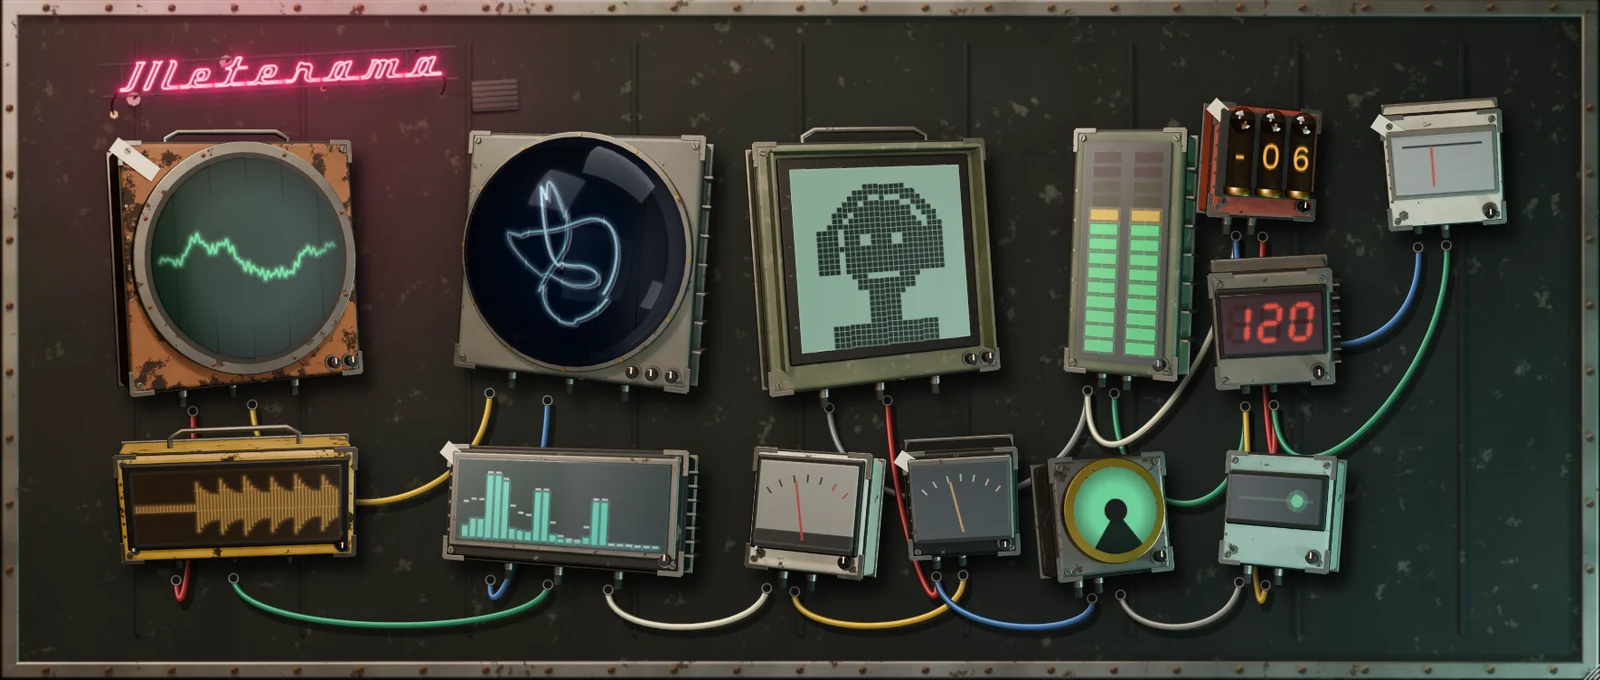
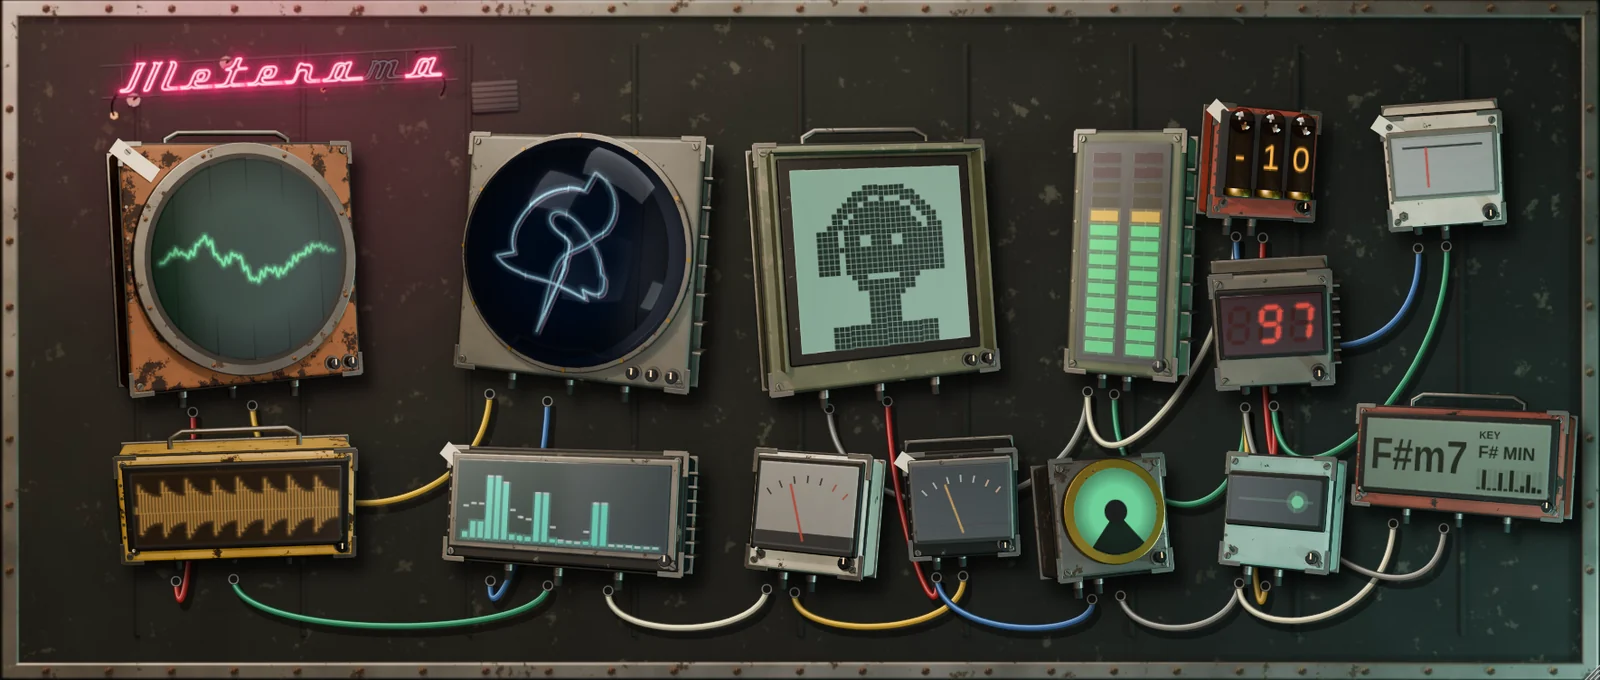
Update the COOK site

diff --git a/index.html b/index.html
@@ -63,7 +63,7 @@
           <figure><a class="zoom" href="./assets/plugin-npc.webp" target="_blank" rel="noopener" aria-label="Open the full-size image"><img class="shot" src="./assets/plugin-npc.webp" width="1600" height="1093" loading="lazy" decoding="async" alt="The NPCsample pad sampler with sixteen pads, a screen and knobs"></a><figcaption><strong>NPCsample</strong> Inspired by the MPC Sample and made to be its companion. Drag sounds onto 16 pads, slice them up with the built-in chopper, and bang them out from the hardware or your keys. Note repeat, 16 levels and per-pad effects come standard.</figcaption></figure>
           <figure><a class="zoom" href="./assets/plugin-let.webp" target="_blank" rel="noopener" aria-label="Open the full-size image"><img class="shot" src="./assets/plugin-let.webp" width="1600" height="1083" loading="lazy" decoding="async" alt="The Low End Theory plugin with a cassette deck window and graffiti-style artwork"></a><figcaption><strong>Low End Theory</strong> Dusty, crunchy, behind the beat. A lofi colour box with 12-bit crunch, tape wow and flutter, vinyl crackle and a fat, warm low end. Instant boom bap character on anything you feed it.</figcaption></figure>
           <figure><a class="zoom" href="./assets/plugin-nodes.webp" target="_blank" rel="noopener" aria-label="Open the full-size image"><img class="shot" src="./assets/plugin-nodes.webp" width="1600" height="1127" loading="lazy" decoding="async" alt="The NODES effects plugin with tape, filter and crush modules joined by patch cables"></a><figcaption><strong>NODES</strong> An effects playground with no rules. Tape, filter, crush, echo and more live as separate modules that you wire up with patch cables. Hit shuffle and let it surprise you.</figcaption></figure>
-          <figure><a class="zoom" href="./assets/plugin-meterama.webp" target="_blank" rel="noopener" aria-label="Open the full-size image"><img class="shot" src="./assets/plugin-meterama.webp" width="1600" height="680" loading="lazy" decoding="async" alt="The Meterama plugin, a dark metal plate covered in worn scopes, meters and tubes wired together under a pink neon sign"></a><figcaption><strong>Meterama</strong> A wall of salvaged gear that dances to whatever you’re cooking. Thirteen beat-up displays under real glass: an oscilloscope, a 3D X-Y dome, spectrum, VU needles, nixie tubes and a neon sign that can’t stay lit. Drag them, spin them, tilt them, rewire the whole thing, then float it in the corner of your screen. Looks wild, never touches your sound.</figcaption></figure>
+          <figure><a class="zoom" href="./assets/plugin-meterama.webp" target="_blank" rel="noopener" aria-label="Open the full-size image"><img class="shot" src="./assets/plugin-meterama.webp" width="1600" height="680" loading="lazy" decoding="async" alt="The Meterama plugin, a dark metal plate covered in worn scopes, meters and tubes wired together under a pink neon sign"></a><figcaption><strong>Meterama</strong> A wall of salvaged gear that dances to whatever you’re cooking. Fourteen beat-up displays under real glass: an oscilloscope, a 3D X-Y dome, spectrum, VU needles, nixie tubes and a neon sign that can’t stay lit. It hears the tempo, the chord and the key straight from the music, even with the DAW stopped. Drag them, spin them, tilt them, rewire the whole thing, then float it in the corner of your screen. Looks wild, never touches your sound.</figcaption></figure>
         </div>
         <h3>Staples</h3>
         <p class="group-note">The pantry. Essentials you reach for on every track, plus JumpSkip for bending time.</p>
